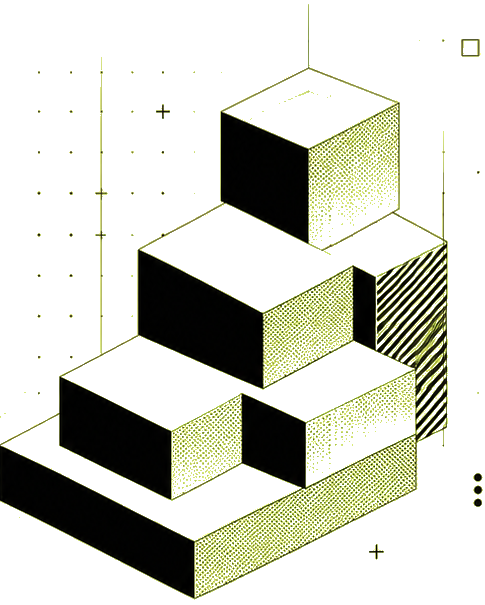
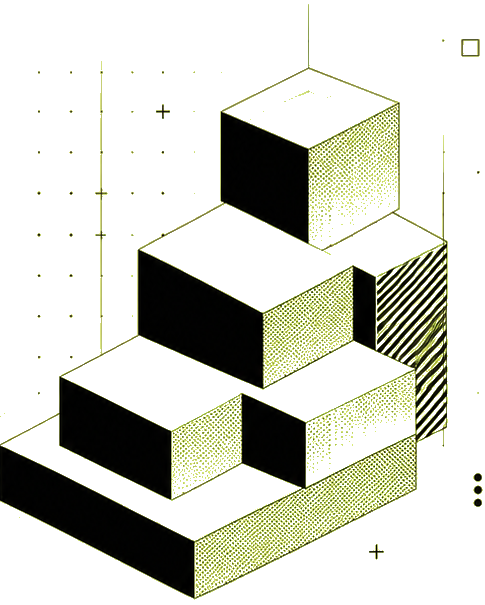
Fix the hero graphic by serving a proper RGBA asset unoptimized.

diff --git a/app/landing-page.tsx b/app/landing-page.tsx
@@ -150,10 +150,11 @@ export function LandingPage() {
             <div className="relative mx-auto w-full max-w-md lg:max-w-none">
               <Image
                 src="/hero-stack.png"
-                alt=""
-                width={1024}
-                height={1024}
+                alt="BetStackers isometric stack graphic"
+                width={485}
+                height={605}
                 priority
+                unoptimized
                 className="h-auto w-full object-contain"
               />
             </div>
